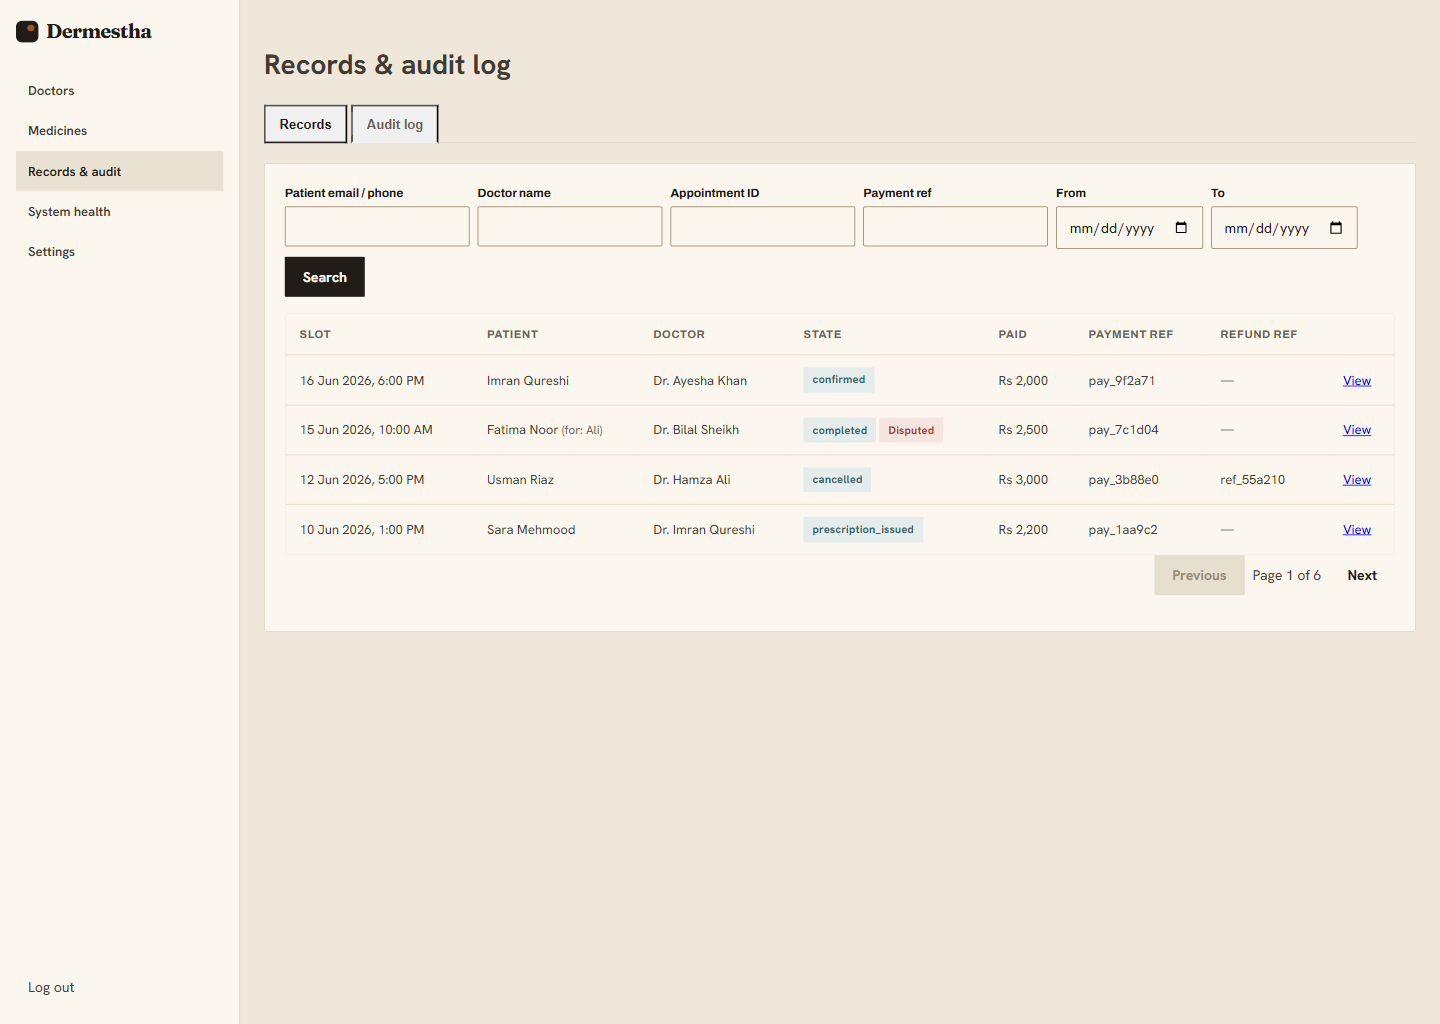
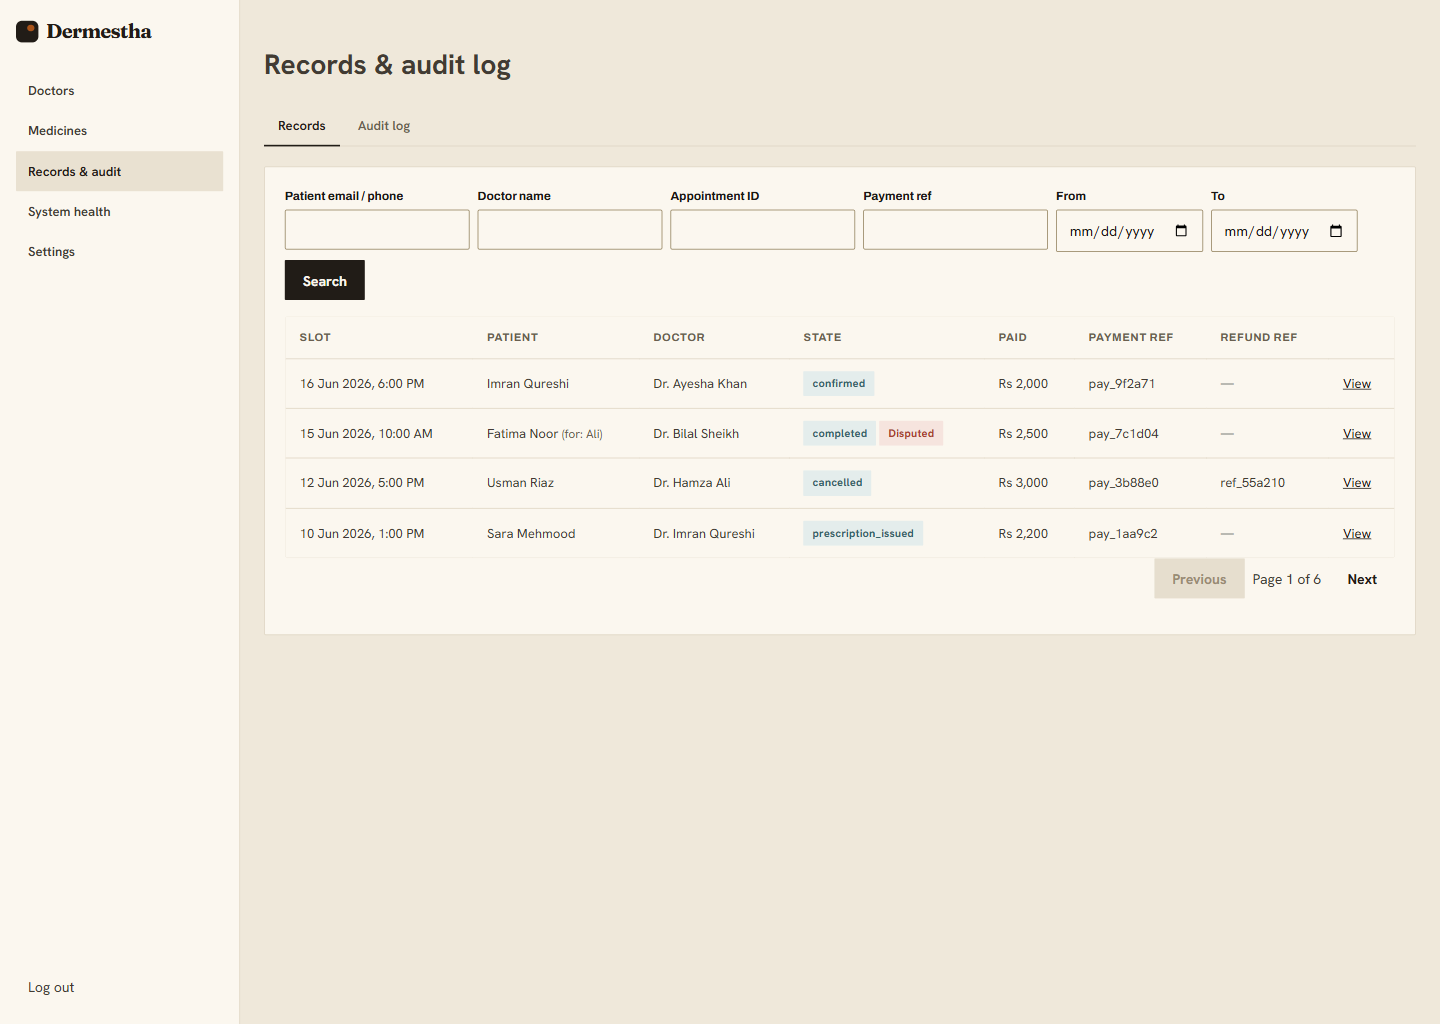
fix(theme): flatten button-tabs + theme bare content links; refresh after-shots
- .tab: control reset (appearance/background/border/font) so <button class=tab> renders
  flat like <a class=tab> (was raised UA button chrome, jarring on dark Derma Noir)
- global a{} -> themeable brand colour for bare content links (admin View, auth recovery);
  default browser blue was illegible on the dark theme. Class-styled links unaffected.
- re-captured D-02/A-03/A-04/P-04/P-05 x3 themes with the fixes; removed orphan P-09-mobile
- report.md: corrected capture notes (tab/links now styled)

verified: build clean, 141/141 tests, new themes 0 AA hard failures

diff --git a/client/src/styles/components.css b/client/src/styles/components.css
@@ -3,6 +3,12 @@
 html, body { margin: 0; }
 body { font-family: var(--font-body); font-size: var(--fs-body); line-height: 1.55;
   color: var(--color-text-body); background: var(--color-bg); }
+/* Default for bare content links (e.g. admin "View", auth recovery links). Themed so they
+   stay on-brand and legible on every theme — incl. the dark one, where default browser blue
+   is unreadable. Class-styled links (.btn/.tab/.sidebar__link/.topnav__links a/.footer-links a)
+   all win on specificity, so this only touches otherwise-unstyled links. */
+a { color: var(--color-primary); }
+a:hover { color: var(--color-primary-hover); }
 .tnum { font-variant-numeric: tabular-nums; }
 
 /* Headings */
@@ -145,7 +151,11 @@ body { font-family: var(--font-body); font-size: var(--fs-body); line-height: 1.
    The .tab/.tab--active classes existed in the views with no CSS; styled here so they
    read as proper tabs and stay legible on every theme (incl. the dark Derma Noir). */
 .tabs { display: flex; gap: var(--sp-1); border-bottom: var(--border-1); margin-bottom: var(--sp-5); }
-.tab { padding: 10px 14px; font-size: var(--fs-body-sm); font-weight: 600; color: var(--color-text-muted); text-decoration: none; border-bottom: 2px solid transparent; margin-bottom: -1px; cursor: pointer; }
+/* Works for both <a class="tab"> and <button class="tab"> — the control reset
+   (appearance/background/border/font) flattens native button chrome so they match. */
+.tab { appearance: none; -webkit-appearance: none; background: none; border: 0; border-bottom: 2px solid transparent;
+  padding: 10px 14px; font: inherit; font-size: var(--fs-body-sm); font-weight: 600; color: var(--color-text-muted);
+  text-decoration: none; margin-bottom: -1px; cursor: pointer; }
 .tab:hover { color: var(--color-text-strong); }
 .tab--active { color: var(--color-primary); border-bottom-color: var(--color-primary); }
 

diff --git a/client/__theme_preview__/gallery.html b/client/__theme_preview__/gallery.html
@@ -14,10 +14,10 @@
 
   <!-- REAL production CSS, linked in the same order as src/main.jsx (tokens -> components),
        with an optional themes.css slot for the after-pass (may 404 today — handled gracefully). -->
-  <link rel="stylesheet" href="../src/styles/tokens.css?v=after2" />
-  <link rel="stylesheet" href="../src/styles/themes.css?v=after2" onerror="this.remove()" />
-  <link rel="stylesheet" href="../src/styles/components.css?v=after2" />
-  <link rel="stylesheet" href="../src/modules/marketing/views/Landing/Landing.css?v=after2" />
+  <link rel="stylesheet" href="../src/styles/tokens.css?v=after4" />
+  <link rel="stylesheet" href="../src/styles/themes.css?v=after4" onerror="this.remove()" />
+  <link rel="stylesheet" href="../src/styles/components.css?v=after4" />
+  <link rel="stylesheet" href="../src/modules/marketing/views/Landing/Landing.css?v=after4" />
 
   <!-- Harness-only chrome. Prefixed .gx-* so it never collides with app classes. -->
   <style>

diff --git a/theme-redesign/report.md b/theme-redesign/report.md
@@ -12,9 +12,11 @@ component inventory is shown per theme. All paths are relative to this
 - **Theming only.** No layout, copy, routing, or flow changes. Every screen is the
   same markup and structure as before; only the design tokens (colour palette, the
   display/heading font, and the corner-radius scale) change per theme. Body text stays
-  Hanken Grotesk in every theme for fast first paint. Plus one CSS-only completion — the
-  previously-unstyled `.tab` navigation component (P-08/P-09/D-02/A-04) was given
-  themeable styling; no view/markup or business-logic changes.
+  Hanken Grotesk in every theme for fast first paint. Plus two CSS-only completions (no
+  view/markup or business-logic changes): the previously-unstyled `.tab` navigation
+  component (P-08/P-09/D-02/A-04) was given themeable styling, and bare content links
+  (e.g. admin "View", auth recovery links) now use a themeable brand colour so they stay
+  legible on every theme — including the dark one, where default browser blue was unreadable.
 - **Four selectable themes** (chosen in the app under **Admin -> Appearance**; the
   choice is remembered per browser in `localStorage`):
   - **Ivory & Ink** — warm bone-and-ink editorial luxe, one burnt-amber accent, sharp
@@ -222,6 +224,10 @@ rendered in each theme.
   P-03, P-06, P-08, P-13) x 3 themes (18 PNGs).
 - Component inventory: 1440x1024 x 3 themes (3 PNGs).
 - The spruce BEFORE set in `before/` was captured previously and is reused unchanged.
-- A handful of list/tab classes (.tabs / .tab / .appt-row / .status-card /
-  .empty-state) have no CSS in the app and render as plain text in every theme; this is
-  the same honest-unstyled state as the BEFORE baseline, not a theming regression.
+- `.tabs`/`.tab` are now styled (this redesign completed them) and bare content links are
+  now brand-coloured. A few remaining list classes (`.appt-row` / `.status-card` /
+  `.empty-state`) still have no CSS in the app and render as plain — but legible,
+  themed-text — rows in every theme; this is the same honest-unstyled state as the BEFORE
+  baseline, not a theming regression. Styling them is a separate design task, out of this
+  theming scope. NOTE: the harness's D-02 reproduction shows the appt-row action buttons
+  less faithfully than the real app, which uses proper `.btn` components (see DoctorToday.jsx).
